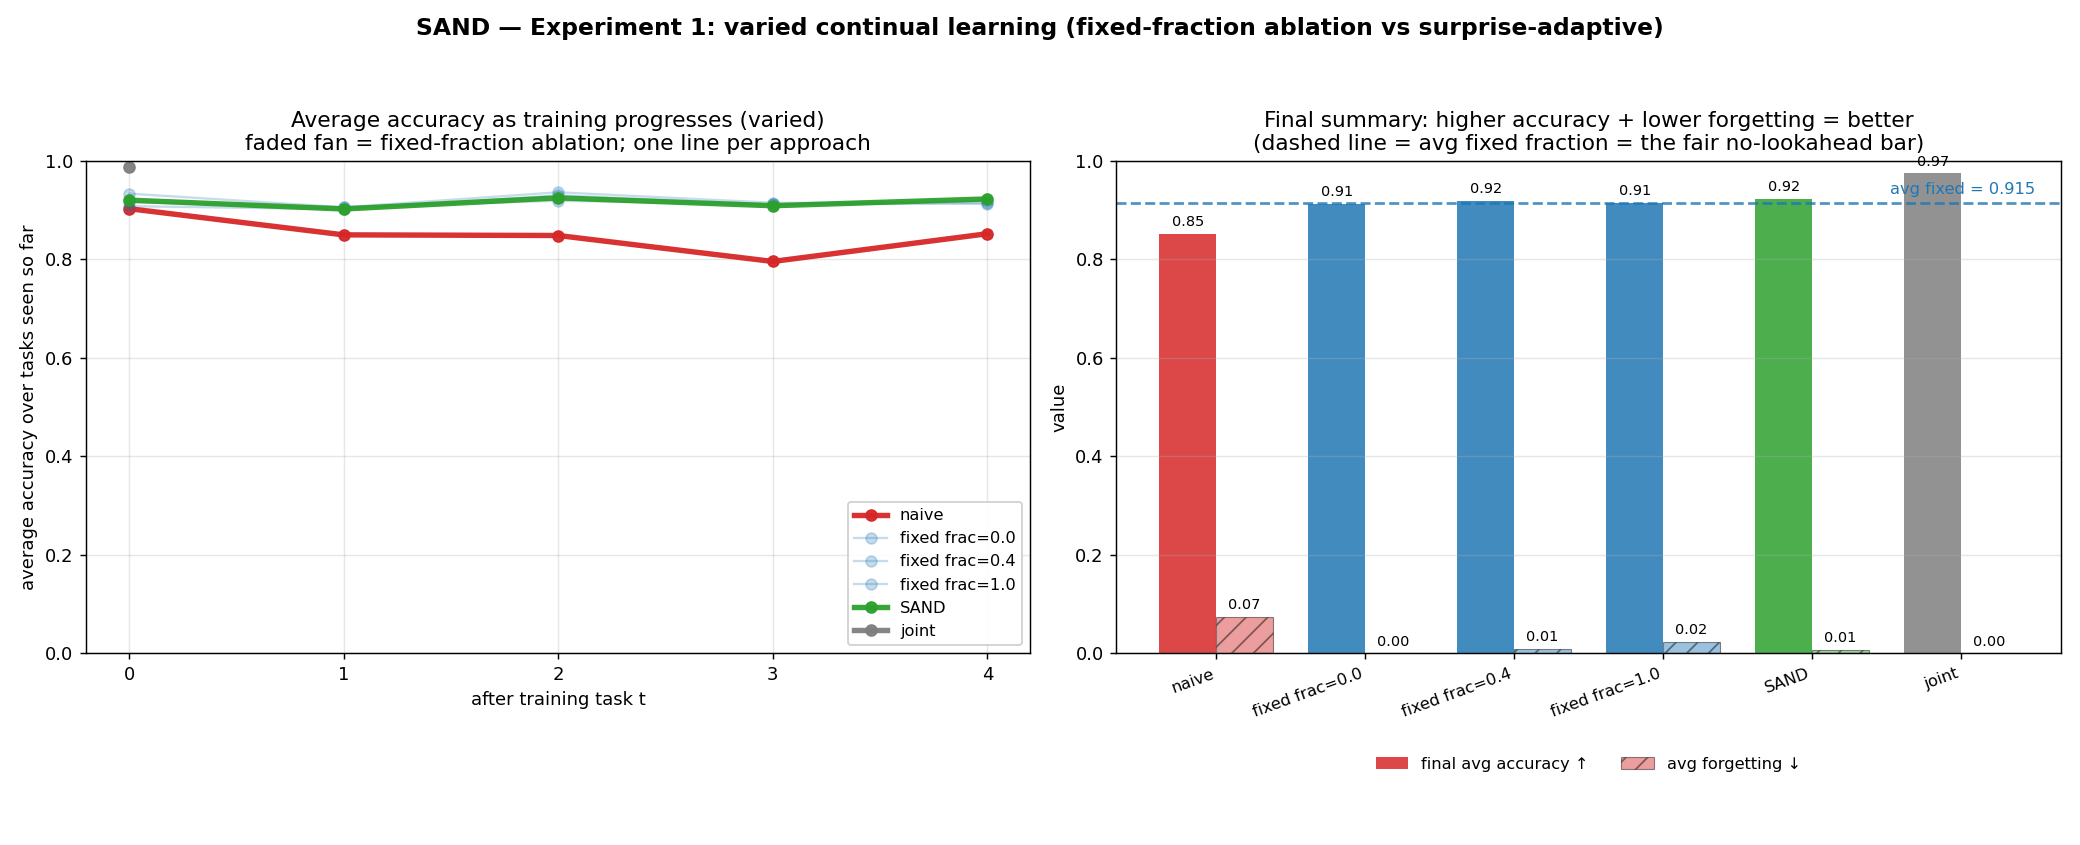
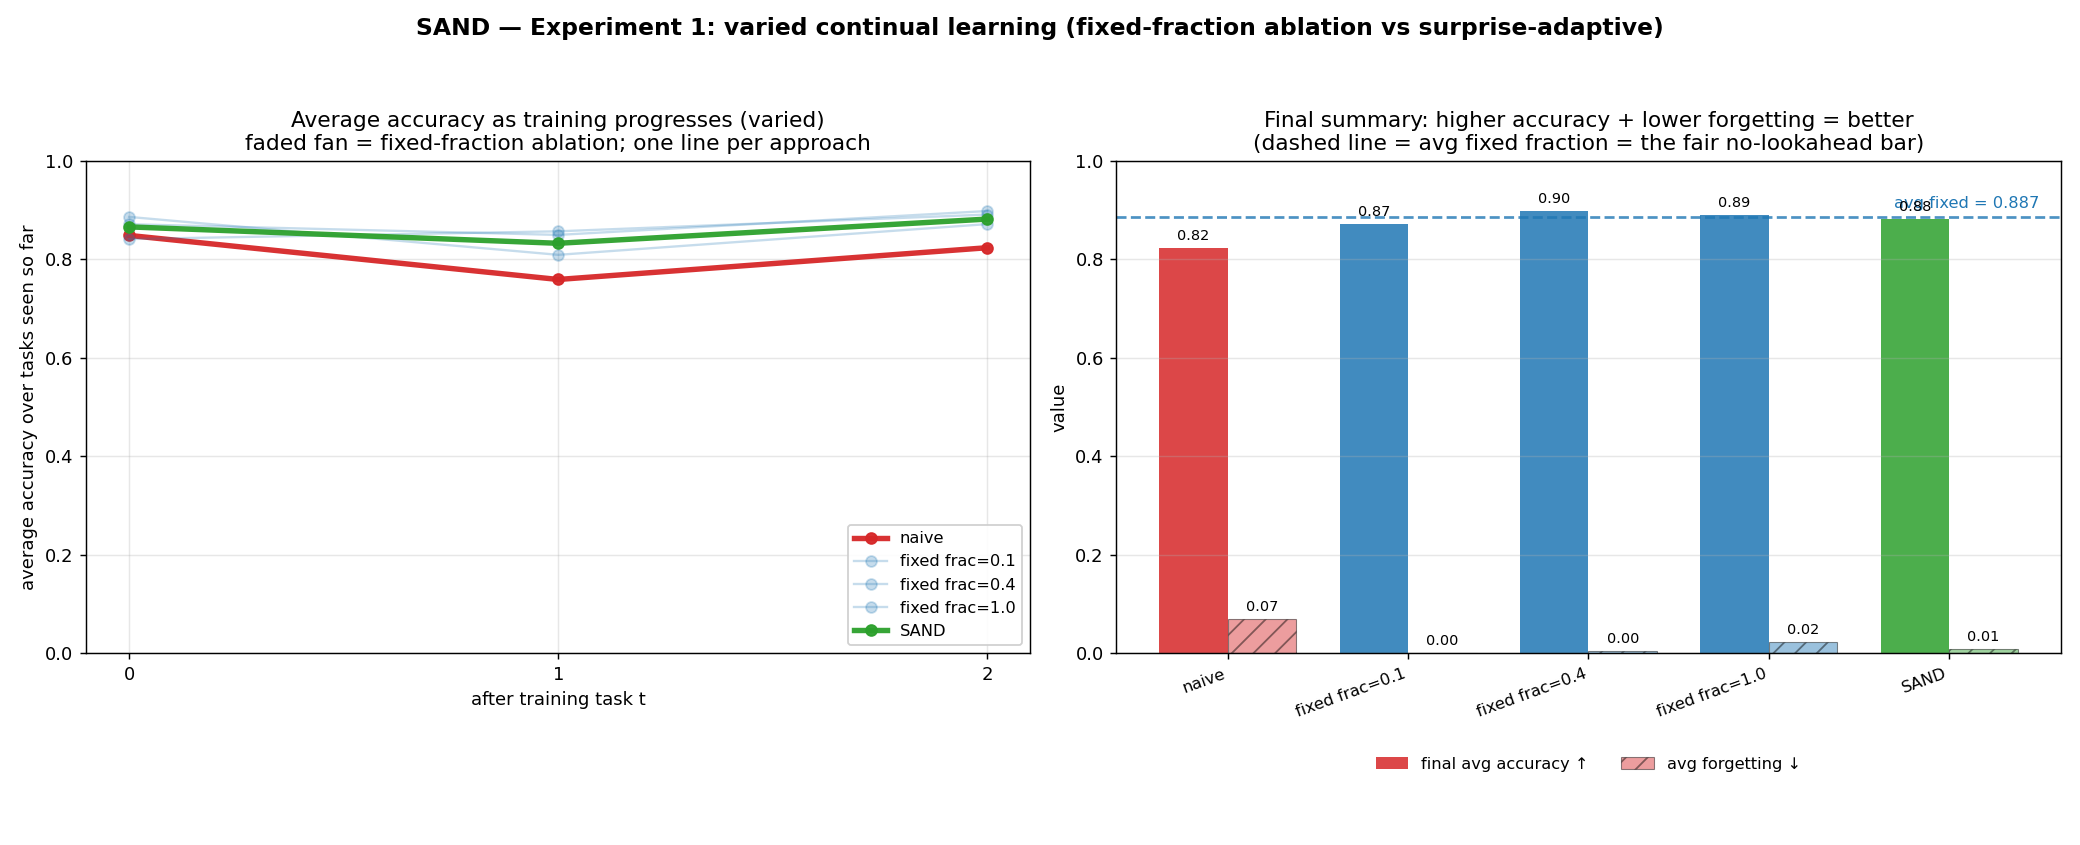
Add per-epoch learning curves plot (how fast each method learns vs forgets over time)
Directly answers the 'you need graphs over time: how long to learn with vs
without the technique, and memory loss with vs without' critique.

run_experiment_1.py now records, after every training epoch of every task:
  - new-task accuracy (how fast the method is learning the current task)
  - old-tasks mean accuracy (how much it's forgetting as it learns)
Plot saved to result-exp-1-curves.png: one column per task (1..n-1), top row =
new-task accuracy per epoch, bottom row = old-tasks accuracy per epoch. naive /
SAND / joint drawn bold; fixed-fraction ablation as a faded fan. Same axes
across methods = directly comparable, as requested.

train_one_task gains an epoch_hook callback; Result gains a curves field;
_make_curve_hook builds the recorder. No behavior change to the method itself.

diff --git a/run_experiment_1.py b/run_experiment_1.py
@@ -233,7 +233,8 @@ def task_loss(logits: torch.Tensor, yb: torch.Tensor, classes: list[int] | None,
 
 def train_one_task(model, loader, device, lr, epochs, classes,
                    freeze_direction=False, gain_lr=None, log_prefix="      ",
-                   shared_head: bool = False, per_layer_dir_lrs: list[float] | None = None):
+                   shared_head: bool = False, per_layer_dir_lrs: list[float] | None = None,
+                   epoch_hook=None):
     """Train `model` for one task.
 
     - freeze_direction=True: only gains (+ bias) are optimized; direction frozen.
@@ -243,6 +244,8 @@ def train_one_task(model, loader, device, lr, epochs, classes,
       list (one per MDLinear, in order). This is SAND's per-layer drift: a layer
       whose gradient probe said 'move a lot' gets a high lr, a layer that's happy
       gets a low lr. gains still use gain_lr.
+    - epoch_hook: optional callable(epoch_idx, train_loss) called AFTER each epoch,
+      used by the learning-curve recording to capture per-epoch accuracy.
     Otherwise everything is optimized at `lr`.
     """
     gain_params = model.trainable_gain_params()
@@ -305,6 +308,8 @@ def train_one_task(model, loader, device, lr, epochs, classes,
             pbar.close()
         print(f"{log_prefix}epoch {ep+1}/{epochs} done  loss={running/nbatches:.4f}  "
               f"({time.time()-t0:.1f}s)", flush=True)
+        if epoch_hook is not None:
+            epoch_hook(ep, running / nbatches)
     return opt
 
 
@@ -353,6 +358,12 @@ class Result:
     surprises: list[float] = field(default_factory=list)
     # total training epochs spent per task (for compute-fairness auditing)
     total_epochs_per_task: int = 0
+    # per-epoch learning curves for the 'learning over time' plot:
+    #   curves[task_idx] = list of (epoch_idx, new_task_acc, old_tasks_acc)
+    # where new_task_acc is accuracy on the task being trained and
+    # old_tasks_acc is the mean accuracy on all previously-learned tasks,
+    # both evaluated AFTER that epoch. (task 0 has no old tasks -> old=NaN.)
+    curves: list[list[tuple[int, float, float]]] = field(default_factory=list)
 
     def final_avg_accuracy(self) -> float:
         last = self.acc_matrix[-1]
@@ -369,6 +380,44 @@ class Result:
         return sum(forgets) / len(forgets)
 
 
+def _make_curve_hook(model, new_task, old_tasks, res, t: int, device):
+    """Build an epoch_hook that records, after each training epoch of task t:
+    (epoch_idx, new_task_acc, old_tasks_mean_acc) into res.curves[t].
+    new_task_acc = accuracy on the task being trained; old_tasks_mean_acc =
+    mean accuracy on all previously-learned tasks (NaN if none). This drives
+    the 'learning over time' plot: how fast each method learns the new task
+    vs how much it forgets the old ones, per epoch."""
+    res.curves.append([])
+    new_loader = make_loader(new_task.test_loader.dataset.tensors[0],
+                             new_task.test_loader.dataset.tensors[1], 512, shuffle=False)
+    old_acc_loaders = [(ot.test_loader.dataset.tensors[0],
+                        ot.test_loader.dataset.tensors[1], ot.classes, ot.shared_head)
+                       for ot in old_tasks]
+    def hook(ep, train_loss):
+        new_acc = evaluate(model, new_loader, device, new_task.classes, new_task.shared_head)
+        if old_acc_loaders:
+            # snapshot the new-task gains, switch to each old task's gains, eval,
+            # then restore -- so 'old tasks' accuracy uses each old task's stored
+            # gains (as in evaluate_all_tasks), not the current task's gains.
+            saved = t  # current task index is t
+            olds = []
+            for oi, (ox, oy, ocl, osh) in enumerate(old_acc_loaders):
+                model.set_task(oi)
+                ol = make_loader(ox, oy, 512, shuffle=False)
+                olds.append(evaluate(model, ol, device, ocl, osh))
+            model.set_task(saved)
+            old_acc = float(np_mean(olds)) if olds else float("nan")
+        else:
+            old_acc = float("nan")
+        res.curves[t].append((ep, new_acc, old_acc))
+    return hook
+
+
+def np_mean(xs):
+    import numpy as _np
+    return float(_np.mean(xs))
+
+
 def run_naive(tasks, device, args) -> Result:
     """Baseline: keep training everything on every task."""
     model = make_model(device, hidden=args.hidden, n_outputs=args.n_outputs)
@@ -376,8 +425,9 @@ def run_naive(tasks, device, args) -> Result:
     for t, task in enumerate(tasks):
         loader = make_loader(task.train_x, task.train_y, args.batch_size, shuffle=True)
         print(f"   --- naive: task {t}/{len(tasks)-1} ({task.name}) ---", flush=True)
+        hook = _make_curve_hook(model, task, tasks[:t], res, t, device)
         train_one_task(model, loader, device, args.lr, args.epochs, task.classes,
-                       log_prefix="      ", shared_head=task.shared_head)
+                       log_prefix="      ", shared_head=task.shared_head, epoch_hook=hook)
         accs = evaluate_all_tasks(model, tasks[:t + 1], device)
         res.acc_matrix.append(accs)
         print(f"   [naive] after task {t}: " +
@@ -401,20 +451,21 @@ def run_fixed_frac(tasks, device, args, frac: float) -> Result:
     for t, task in enumerate(tasks):
         loader = make_loader(task.train_x, task.train_y, args.batch_size, shuffle=True)
         print(f"   --- fixed frac={frac}: task {t}/{len(tasks)-1} ({task.name}) ---", flush=True)
+        hook = _make_curve_hook(model, task, tasks[:t], res, t, device)
         if t == 0:
             train_one_task(model, loader, device, args.lr, args.epochs, task.classes,
-                           log_prefix="      ", shared_head=task.shared_head)
+                           log_prefix="      ", shared_head=task.shared_head, epoch_hook=hook)
         else:
             model.new_task()
             if frac == 0:
                 model.freeze_direction()
                 train_one_task(model, loader, device, args.lr, args.epochs, task.classes,
                                freeze_direction=True, log_prefix="      ",
-                               shared_head=task.shared_head)
+                               shared_head=task.shared_head, epoch_hook=hook)
             else:
                 train_one_task(model, loader, device, args.lr * frac, args.epochs,
                                task.classes, freeze_direction=False, gain_lr=args.lr,
-                               log_prefix="      ", shared_head=task.shared_head)
+                               log_prefix="      ", shared_head=task.shared_head, epoch_hook=hook)
         accs = evaluate_all_tasks(model, tasks[:t + 1], device)
         res.acc_matrix.append(accs)
         print(f"   [fixed {frac}] after task {t}: " +
@@ -442,9 +493,10 @@ def run_sand(tasks, device, args) -> Result:
         full_loader = make_loader(task.train_x, task.train_y, args.batch_size, shuffle=True)
 
         print(f"   --- SAND: task {t}/{len(tasks)-1} ({task.name}) ---", flush=True)
+        hook = _make_curve_hook(model, task, tasks[:t], res, t, device)
         if t == 0:
             train_one_task(model, full_loader, device, args.lr, args.epochs, task.classes,
-                           log_prefix="      ", shared_head=task.shared_head)
+                           log_prefix="      ", shared_head=task.shared_head, epoch_hook=hook)
         else:
             model.new_task()                       # save old gains, reset live gains
             # ---- COSINE-CONFLICT PROBE (A-GEM / GPM / PCGrad style):
@@ -519,7 +571,7 @@ def run_sand(tasks, device, args) -> Result:
             train_one_task(model, full_loader, device, args.lr, args.epochs, task.classes,
                            freeze_direction=False, gain_lr=args.lr, log_prefix="      ",
                            shared_head=task.shared_head,
-                           per_layer_dir_lrs=per_layer_dir_lrs)
+                           per_layer_dir_lrs=per_layer_dir_lrs, epoch_hook=hook)
         accs = evaluate_all_tasks(model, tasks[:t + 1], device)
         res.acc_matrix.append(accs)
         print(f"   [SAND] after task {t}: " +
@@ -719,6 +771,55 @@ def plot_results(results: list[Result], out_path: str, stream: str) -> None:
     fig.tight_layout(rect=[0, 0.02, 1, 0.95])
     fig.savefig(out_path, dpi=130)
     print(f"\nPlot saved to: {out_path}", flush=True)
+
+    # ---- Learning curves over time: per-epoch new-task acc and old-tasks acc,
+    #      one subplot per task (tasks 1..n-1), methods as colored lines. This
+    #      directly answers 'how fast does each method learn the new task, and
+    #      how much does it forget the old ones, as training progresses?' ---- #
+    n_tasks = max(len(r.acc_matrix) for r in results)
+    n_curve_tasks = n_tasks - 1  # task 0 has no 'old tasks' to forget
+    if n_curve_tasks <= 0 or all(not r.curves for r in results):
+        return
+    cfig, axes = plt.subplots(2, n_curve_tasks, figsize=(4.2 * n_curve_tasks, 7),
+                              squeeze=False)
+    for ti in range(1, n_tasks):  # task 0 is the backbone, skip
+        col = ti - 1
+        ax_new, ax_old = axes[0, col], axes[1, col]
+        for r in results:
+            if ti >= len(r.curves) or not r.curves[ti]:
+                continue
+            rows = r.curves[ti]
+            eps = [row[0] for row in rows]
+            new = [row[1] for row in rows]
+            old = [row[2] for row in rows]
+            is_fan = r.name.startswith("fixed")
+            lw = 2.6 if r.name in ("SAND", "naive", "joint") else 1.1
+            alpha = 0.25 if is_fan else 0.95
+            ax_new.plot(eps, new, marker="o", ms=4, color=r.color, lw=lw,
+                        alpha=alpha, label=r.name)
+            # old-tasks line only where it's not NaN
+            oe = [e for e, o in zip(eps, old) if not (o != o)]  # not NaN
+            oo = [o for o in old if not (o != o)]
+            if oe:
+                ax_old.plot(oe, oo, marker="s", ms=4, color=r.color, lw=lw,
+                            alpha=alpha)
+        ax_new.set_title(f"task {ti} — NEW-task accuracy", fontsize=10)
+        ax_old.set_title(f"task {ti} — OLD-tasks accuracy (forgetting)", fontsize=10)
+        ax_new.set_ylim(0, 1.0); ax_old.set_ylim(0, 1.0)
+        ax_new.set_xlabel("epoch within task"); ax_old.set_xlabel("epoch within task")
+        ax_new.grid(True, alpha=0.3); ax_old.grid(True, alpha=0.3)
+        if col == 0:
+            ax_new.set_ylabel("new-task acc")
+            ax_old.set_ylabel("old-tasks mean acc")
+    axes[0, 0].legend(loc="lower right", fontsize=8, framealpha=0.9)
+    cfig.suptitle(f"SAND \u2014 Learning curves over time ({stream}): "
+                  f"top row = how fast each method learns each NEW task; "
+                  f"bottom row = how much it forgets OLD tasks per epoch",
+                  fontsize=12, fontweight="bold")
+    cfig.tight_layout(rect=[0, 0, 1, 0.95])
+    curves_path = out_path.replace(".png", "-curves.png")
+    cfig.savefig(curves_path, dpi=130)
+    print(f"Plot saved to: {curves_path}", flush=True)
 
 
 # --------------------------------------------------------------------------- #